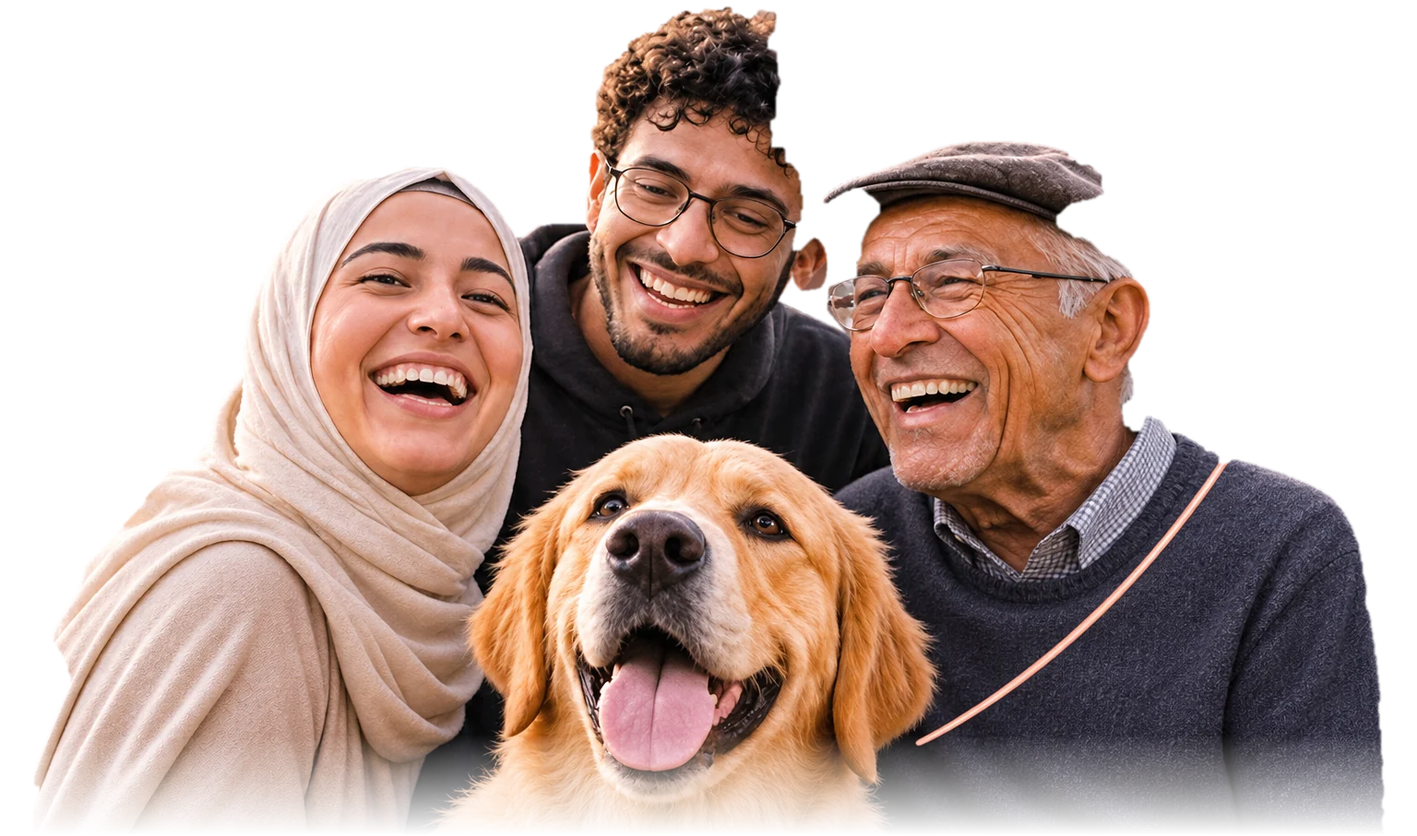
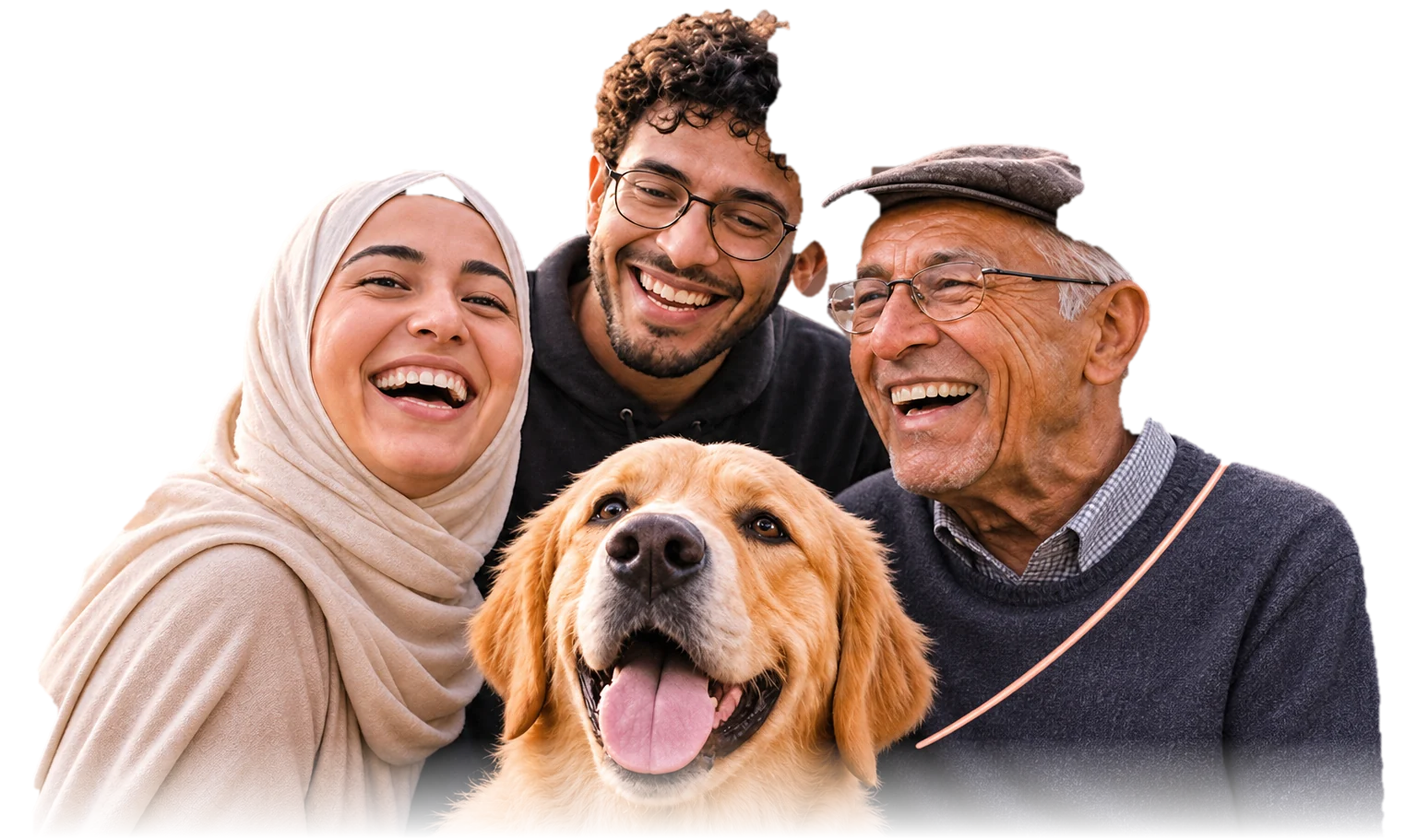
Interactive app preview, benefits section, log out, fuller hero cut-out
Landing: a "The App" section with a CSS iPhone that runs real mini
screens (welcome, log in, home, explore, event, request sent, plans,
chat). Tapping inside the phone or scrolling the section moves through
the app; when the story changes side, the phone spins 360 degrees across
the stage and the description swaps. A benefits bento covers feeling less
alone, helping others, learning from elders, pets, friends and memories.
The hero cut-out keeps the full hair and cap.

/app: Log out in the sidebar and on the profile page.

diff --git a/app/globals.css b/app/globals.css
@@ -687,7 +687,7 @@ button:disabled{cursor:not-allowed}
 
 /* ===== Friends v5 ===== */
 /* Hero: cut-out group with no frame, sitting on a soft coral glow */
-.friends-showcase .showcase-hero-photo{aspect-ratio:1536/907}
+.friends-showcase .showcase-hero-photo{aspect-ratio:1536/910}
 .friends-showcase .showcase-hero-photo:after{content:"";position:absolute;inset:8% 6% 0;z-index:-1;border-radius:50%;background:radial-gradient(ellipse at 50% 55%,#ed927f40 0%,#ed927f14 45%,transparent 70%);filter:blur(10px);pointer-events:none}
 .friends-showcase .showcase-hero-photo .showcase-hero-artwork{object-fit:contain;object-position:center bottom;border:0!important;border-radius:0!important;box-shadow:none!important;background:transparent}
 :root[data-theme='light'] .friends-showcase .showcase-hero-photo .showcase-hero-artwork{box-shadow:none!important}
@@ -758,3 +758,175 @@ button:disabled{cursor:not-allowed}
 .friends-showcase .showcase-hero-photo .hero-float-meet{top:4%;right:-2%}
 .friends-showcase .showcase-hero-photo .hero-float-care{bottom:26%;left:-4%}
 .friends-showcase .showcase-hero-photo .hero-float-belong{bottom:12%;right:-4%}
+
+/* ===== App showcase: interactive phone ===== */
+.app-show{--ph-bg:#17131a;--ph-panel:#231d26;--ph-line:#ffffff14;--ph-ink:#f8efec;--ph-muted:#a99ba5;--ph-coral:#ed927f;--ph-coral-ink:#27191a;--ph-bar:#1b161ef0;max-width:1180px;margin:40px auto 0}
+:root[data-theme='light'] .app-show{--ph-bg:#f7f0ed;--ph-panel:#fff;--ph-line:#e3d3ce;--ph-ink:#1f171e;--ph-muted:#6a5c66;--ph-coral:#a4473a;--ph-coral-ink:#fff;--ph-bar:#fffaf7f0}
+.app-track{position:relative;height:calc(8 * 70vh)}
+.app-stage{position:sticky;top:72px;height:calc(100dvh - 72px);min-height:640px;z-index:1}
+.app-copy,.app-phone-slot{position:absolute;top:0;bottom:0;left:0;width:50%;display:flex;align-items:center;transition:transform 1.1s cubic-bezier(.65,0,.35,1)}
+.app-phone-slot{justify-content:center;perspective:1600px}
+.app-copy{padding:0 5%}
+.side-right .app-phone-slot{transform:translateX(100%)}
+.side-left .app-copy{transform:translateX(100%)}
+.app-copy-inner{max-width:430px;animation:appCopyIn .55s cubic-bezier(.16,1,.3,1) both}
+@keyframes appCopyIn{from{opacity:0;transform:translateY(14px)}to{opacity:1;transform:none}}
+.app-copy h2{font:700 clamp(30px,3.4vw,44px)/1.08 Manrope,sans-serif;letter-spacing:-1.6px;margin:0 0 14px;color:var(--show-ink)}
+.app-copy p{font-size:15px;line-height:1.7;color:var(--show-muted);margin:0}
+.app-copy .app-hint{display:inline-flex;align-items:center;gap:8px;margin-top:18px;padding:7px 12px;border-radius:999px;background:color-mix(in srgb,var(--show-coral) 14%,transparent);color:var(--show-coral);font-size:12.5px;font-weight:600}
+.app-dots{display:flex;gap:6px;margin:22px 0 26px}
+.app-dots button{width:8px;height:8px;border-radius:99px;border:0;padding:0;background:color-mix(in srgb,var(--show-ink) 25%,transparent);cursor:pointer;transition:width .3s,background .3s}
+.app-dots button.on{width:26px;background:var(--show-coral)}
+.app-stores{display:flex;flex-wrap:wrap;align-items:center;gap:14px}
+.app-stores>span{display:inline-flex;align-items:center;gap:7px;font-size:12px;color:var(--show-muted)}
+.app-sentinels{position:absolute;inset:0;display:grid;grid-template-rows:repeat(8,1fr);pointer-events:none;visibility:hidden}
+
+/* Device */
+.ph-device{position:relative;width:282px;height:580px;transform-style:preserve-3d;transition:transform 1.1s cubic-bezier(.65,0,.35,1)}
+.ph-face{position:absolute;inset:0;border-radius:46px;backface-visibility:hidden;-webkit-backface-visibility:hidden}
+.ph-front{background:#0e0b10;padding:10px;box-shadow:inset 0 0 0 1px #ffffff26,0 0 0 2px #2c2531,0 40px 80px rgba(10,6,12,.45)}
+:root[data-theme='light'] .ph-front{box-shadow:inset 0 0 0 1px #ffffff26,0 0 0 2px #3a3036,0 40px 80px rgba(74,47,42,.3)}
+.ph-front:before,.ph-front:after{content:"";position:absolute;width:3px;border-radius:3px;background:#2c2531}
+.ph-front:before{left:-4px;top:118px;height:56px;box-shadow:0 70px 0 #2c2531}
+.ph-front:after{right:-4px;top:150px;height:80px}
+.ph-rear{transform:rotateY(180deg);background:linear-gradient(150deg,#46303d,#1d161f 70%);box-shadow:inset 0 0 0 1px #ffffff26,0 0 0 2px #2c2531,0 40px 80px rgba(10,6,12,.45)}
+.ph-cam{position:absolute;top:20px;left:20px;width:98px;height:98px;border-radius:28px;background:#0e0b10aa;display:grid;grid-template-columns:1fr 1fr;place-items:center;padding:10px;box-shadow:inset 0 0 0 1px #ffffff1a}
+.ph-cam i{width:34px;height:34px;border-radius:50%;background:radial-gradient(circle at 40% 35%,#4a4a5a,#08070a 60%);box-shadow:0 0 0 3px #1d181f}
+.ph-cam i:nth-child(3){width:14px;height:14px}
+.ph-rear-logo{position:absolute;left:50%;top:50%;width:58px;height:58px;transform:translate(-50%,-50%);color:#ed927f;display:grid}
+.ph-rear-logo .friends-brand-mark{width:58px;height:58px;flex-basis:58px;color:#ed927f}
+.ph-screen{position:relative;height:100%;border-radius:37px;overflow:hidden;background:var(--ph-bg);color:var(--ph-ink);font-family:'DM Sans',sans-serif;font-size:12px}
+.ph-status{position:relative;z-index:3;height:44px;display:flex;align-items:center;justify-content:space-between;padding:4px 24px 0 28px;font-weight:600;font-size:12px}
+.ph-island{position:absolute;left:50%;top:10px;transform:translateX(-50%);width:90px;height:26px;border-radius:20px;background:#000}
+.ph-sys{display:flex;gap:4px;font-size:12px}
+.ph-view{position:absolute;inset:44px 0 0;animation:phIn .35s cubic-bezier(.16,1,.3,1)}
+@keyframes phIn{from{opacity:0;transform:translateX(16px)}to{opacity:1;transform:none}}
+.ph-home-bar{position:absolute;z-index:5;bottom:7px;left:50%;transform:translateX(-50%);width:108px;height:4px;border-radius:4px;background:var(--ph-ink);opacity:.45;pointer-events:none}
+.ph-screen button{font-family:inherit;cursor:pointer}
+
+/* Screens */
+.ph-scroll{position:absolute;inset:0;display:flex;flex-direction:column}
+.ph-scroll>.ph-pad,.ph-msgs{flex:1;overflow:auto;scrollbar-width:none}
+.ph-pad{padding:6px 16px 14px}
+.ph-h{font:700 19px/1.2 Manrope,sans-serif;letter-spacing:-.5px;margin:4px 0 4px}
+.ph-sub{color:var(--ph-muted);font-size:11.5px;line-height:1.5;margin:0}
+.ph-label{font-size:11px;font-weight:600;color:var(--ph-muted);margin:14px 0 8px}
+.ph-btn{display:flex;align-items:center;justify-content:center;width:100%;height:40px;margin-top:10px;border:0;border-radius:12px;background:var(--ph-coral);color:var(--ph-coral-ink);font-weight:700;font-size:12.5px;transition:transform .15s}
+.ph-btn.ghost{background:transparent;color:var(--ph-ink);border:1px solid var(--ph-line)}
+.ph-btn:active,.ph-card:active,.ph-paths button:active{transform:scale(.97)}
+.ph-spin{width:16px;height:16px;border-radius:50%;border:2px solid currentColor;border-right-color:transparent;animation:phSpin .6s linear infinite}
+@keyframes phSpin{to{transform:rotate(360deg)}}
+.ph-back{width:32px;height:32px;display:grid;place-items:center;border-radius:10px;border:1px solid var(--ph-line);background:var(--ph-panel);color:var(--ph-ink);font-size:16px;margin:4px 0 10px}
+.ph-back.on-img{position:absolute;top:10px;left:12px;margin:0;background:#0009;color:#fff;border-color:#fff3}
+.ph-welcome{position:absolute;inset:-44px 0 0;padding:0;display:flex;flex-direction:column;justify-content:flex-end}
+.ph-welcome-img{position:absolute;top:0;left:0;width:100%;height:62%;object-fit:cover;mask-image:linear-gradient(#000 55%,transparent);-webkit-mask-image:linear-gradient(#000 55%,transparent)}
+.ph-welcome-copy{position:relative;padding:0 18px 30px;text-align:center}
+.ph-logo{display:inline-grid;width:38px;height:38px;margin-bottom:6px}
+.ph-logo .friends-brand-mark{width:38px;height:38px;flex-basis:38px;color:var(--ph-coral)}
+.ph-welcome h4{font:700 21px/1.15 Manrope,sans-serif;letter-spacing:-.6px;margin:0 0 6px}
+.ph-welcome p{color:var(--ph-muted);font-size:11.5px;margin:0 0 6px}
+.ph-field{display:grid;gap:4px;margin-top:12px}
+.ph-field span{font-size:10.5px;font-weight:600;color:var(--ph-muted)}
+.ph-field b{display:block;padding:10px 12px;border-radius:11px;border:1px solid var(--ph-line);background:var(--ph-panel);font-weight:500;font-size:12px}
+.ph-note{font-size:10px;color:var(--ph-muted);text-align:center;margin:10px 0 0}
+.ph-hero{position:relative;height:118px;border-radius:16px;overflow:hidden;margin-top:10px}
+.ph-hero img,.ph-paths img,.ph-detail-img img,.ph-card img{width:100%;height:100%;object-fit:cover;display:block}
+.ph-hero>div{position:absolute;inset:auto 0 0;padding:26px 12px 10px;background:linear-gradient(transparent,#120d14e6);color:#fff}
+.ph-hero b{display:block;font:700 13px/1.3 Manrope,sans-serif}
+.ph-hero span{font-size:10px;opacity:.85}
+.ph-paths{display:grid;grid-template-columns:1fr 1fr;gap:8px}
+.ph-paths button{position:relative;height:86px;padding:0;border:0;border-radius:14px;overflow:hidden;transition:transform .15s}
+.ph-paths button.wide{grid-column:1/-1;height:70px}
+.ph-paths span{position:absolute;left:10px;bottom:8px;color:#fff;font:700 12.5px Manrope,sans-serif;text-shadow:0 1px 8px #0009}
+.ph-search{display:flex;align-items:center;gap:8px;margin:8px 0;padding:9px 12px;border-radius:11px;background:var(--ph-panel);border:1px solid var(--ph-line);color:var(--ph-muted);font-size:11.5px}
+.ph-chips{display:flex;gap:6px;margin-bottom:10px}
+.ph-chips span{padding:5px 10px;border-radius:99px;border:1px solid var(--ph-line);font-size:10.5px;color:var(--ph-muted)}
+.ph-chips .on{background:var(--ph-ink);color:var(--ph-bg);border-color:var(--ph-ink)}
+.ph-card{display:flex;gap:10px;width:100%;padding:8px;margin-bottom:8px;border-radius:14px;border:1px solid var(--ph-line);background:var(--ph-panel);color:var(--ph-ink);text-align:left;transition:transform .15s}
+.ph-card img{width:62px;height:62px;border-radius:10px;flex:none}
+.ph-card b{display:block;font-size:12px;line-height:1.3}
+.ph-card span{display:block;font-size:10.5px;color:var(--ph-muted);margin:3px 0}
+.ph-card em{font-style:normal;font-size:10px;font-weight:600;color:var(--ph-coral)}
+.ph-detail-img{position:relative;height:178px;flex:none}
+.ph-tag{display:inline-block;margin-top:2px;padding:4px 9px;border-radius:99px;background:color-mix(in srgb,var(--ph-coral) 16%,transparent);color:var(--ph-coral);font-size:10px;font-weight:600}
+.ph-facts{display:grid;grid-template-columns:1fr 1fr;gap:8px;margin:10px 0}
+.ph-facts div{padding:9px 10px;border-radius:11px;background:var(--ph-panel);border:1px solid var(--ph-line)}
+.ph-facts span{display:block;font-size:10px;color:var(--ph-muted)}
+.ph-facts b{font-size:11.5px}
+.ph-going{display:flex;align-items:center}
+.ph-av{width:26px;height:26px;border-radius:50%;display:grid;place-items:center;font-size:10.5px;font-weight:700;color:#241b1f;border:2px solid var(--ph-bg);margin-right:-7px}
+.ph-av.a{background:#e9a28e}.ph-av.b{background:#d6b6a9}.ph-av.c{background:#c9a6c2}
+.ph-going p{margin:0 0 0 14px;font-size:11px;color:var(--ph-muted)}
+.ph-sent{position:absolute;inset:0;display:flex;flex-direction:column;justify-content:center;text-align:center;padding:0 22px 40px}
+.ph-check{width:70px;height:70px;margin:0 auto 14px;border-radius:50%;display:grid;place-items:center;background:var(--ph-coral);color:var(--ph-coral-ink);font-size:32px;box-shadow:0 0 0 0 color-mix(in srgb,var(--ph-coral) 50%,transparent);animation:phPop .5s cubic-bezier(.34,1.56,.64,1) both,phRing 1.6s .5s ease-out infinite}
+@keyframes phPop{from{transform:scale(.4);opacity:0}to{transform:none;opacity:1}}
+@keyframes phRing{to{box-shadow:0 0 0 18px transparent}}
+.ph-week{display:grid;grid-template-columns:repeat(7,1fr);gap:4px;margin:8px 0 12px}
+.ph-week span{display:grid;justify-items:center;gap:2px;padding:6px 0;border-radius:10px;font-size:12px;font-weight:600;position:relative}
+.ph-week small{font-size:9px;color:var(--ph-muted);font-weight:500}
+.ph-week .today{background:var(--ph-coral);color:var(--ph-coral-ink)}
+.ph-week .today small{color:inherit;opacity:.8}
+.ph-week .has:after{content:"";position:absolute;bottom:2px;width:4px;height:4px;border-radius:50%;background:var(--ph-coral)}
+.ph-plan{display:flex;align-items:center;gap:10px;padding:9px;margin-bottom:7px;border-radius:13px;background:var(--ph-panel);border:1px solid var(--ph-line)}
+.ph-date{display:grid;justify-items:center;width:38px;padding:5px 0;border-radius:9px;background:color-mix(in srgb,var(--ph-coral) 12%,transparent);font:700 14px Manrope,sans-serif;color:var(--ph-coral)}
+.ph-date small{font:500 9px 'DM Sans',sans-serif}
+.ph-plan div{flex:1;min-width:0}
+.ph-plan b{display:block;font-size:11.5px;white-space:nowrap;overflow:hidden;text-overflow:ellipsis}
+.ph-plan div span{font-size:10px;color:var(--ph-muted)}
+.ph-plan em{font-style:normal;font-size:9.5px;font-weight:600;padding:3px 7px;border-radius:99px}
+.ph-plan em.ok{background:#3f8a5a33;color:#7fcf9b}.ph-plan em.pend{background:#8fa0d633;color:#a9b6e8}
+:root[data-theme='light'] .ph-plan em.ok{background:#dcefe2;color:#21593a}
+:root[data-theme='light'] .ph-plan em.pend{background:#e3e8f8;color:#33447a}
+.ph-chat-head{display:flex;align-items:center;gap:10px;padding:6px 16px 10px;border-bottom:1px solid var(--ph-line)}
+.ph-chat-head .ph-av{width:32px;height:32px;margin:0;border:0}
+.ph-chat-head b{display:block;font-size:12.5px}.ph-chat-head span{font-size:10px;color:var(--ph-muted)}
+.ph-msgs{display:flex;flex-direction:column;gap:8px;padding:14px 14px 10px}
+.ph-msgs p{margin:0;max-width:78%;padding:9px 12px;border-radius:15px 15px 15px 4px;background:var(--ph-panel);border:1px solid var(--ph-line);font-size:11.5px;line-height:1.45;opacity:0;animation:phMsg .4s var(--d) cubic-bezier(.16,1,.3,1) forwards}
+.ph-msgs p.out{align-self:flex-end;border-radius:15px 15px 4px 15px;background:var(--ph-coral);color:var(--ph-coral-ink);border-color:transparent}
+.ph-msgs .typing{display:flex;gap:4px;width:max-content}
+.ph-msgs .typing i{width:6px;height:6px;border-radius:50%;background:var(--ph-muted);animation:phDot 1s infinite}
+.ph-msgs .typing i:nth-child(2){animation-delay:.15s}
+.ph-msgs .typing i:nth-child(3){animation-delay:.3s}
+@keyframes phMsg{from{opacity:0;transform:translateY(8px)}to{opacity:1;transform:none}}
+@keyframes phDot{0%,100%{opacity:.3;transform:none}50%{opacity:1;transform:translateY(-2px)}}
+.ph-tabs{flex:none;display:grid;grid-template-columns:repeat(4,1fr);height:62px;padding-bottom:14px;background:var(--ph-bar);border-top:1px solid var(--ph-line)}
+.ph-tabs button{display:grid;justify-items:center;align-content:center;gap:2px;border:0;background:none;color:var(--ph-muted);font-size:9.5px;font-weight:600}
+.ph-tabs .icon{font-size:17px}
+.ph-tabs .on{color:var(--ph-coral)}
+
+@media(max-width:900px){
+ .app-track{height:auto}
+ .app-stage{position:relative;top:0;height:auto;min-height:0;display:flex;flex-direction:column;gap:28px;padding:20px 0}
+ .app-copy,.app-phone-slot{position:relative;width:100%;transform:none!important;justify-content:center;text-align:center}
+ .app-copy-inner{margin:0 auto}
+ .app-dots,.app-stores{justify-content:center}
+ .app-sentinels{display:none}
+}
+@media(max-width:420px){.ph-device{width:262px;height:540px}}
+@media(prefers-reduced-motion:reduce){.app-copy,.app-phone-slot,.ph-device{transition:none}.ph-view,.app-copy-inner,.ph-msgs p,.ph-check{animation:none!important;opacity:1}}
+
+/* ===== Benefits bento ===== */
+.benefits{max-width:1180px;margin:0 auto;padding:40px 0 10px}
+.benefit-grid{display:grid;grid-template-columns:repeat(4,1fr);grid-auto-rows:minmax(168px,auto);gap:12px}
+.benefit-grid article{position:relative;overflow:hidden;border-radius:20px;padding:20px;background:linear-gradient(145deg,rgba(255,255,255,.08),rgba(255,255,255,.03));border:1px solid rgba(255,255,255,.14);display:flex;flex-direction:column;transition:transform .25s,border-color .25s}
+.benefit-grid article:hover{transform:translateY(-3px);border-color:color-mix(in srgb,var(--show-coral) 60%,transparent)}
+.benefit-grid article>.icon{font-size:20px;color:var(--show-coral);margin-bottom:auto}
+.benefit-grid h3{font:700 17px Manrope,sans-serif;letter-spacing:-.4px;margin:14px 0 6px;color:var(--show-ink)}
+.benefit-grid p{font-size:12.5px;line-height:1.6;color:var(--show-muted);margin:0}
+.benefit-grid .b-pets{grid-column:span 2;grid-row:span 2}
+.benefit-grid .b-memories{grid-column:1/-1;min-height:220px}
+.benefit-grid .has-img{padding:0;border:0}
+.benefit-grid .has-img>img{position:absolute;inset:0;width:100%;height:100%;object-fit:cover;transition:transform .6s}
+.benefit-grid .has-img:hover>img{transform:scale(1.04)}
+.benefit-grid .has-img>div{position:relative;margin-top:auto;padding:70px 22px 22px;background:linear-gradient(transparent,rgba(18,12,20,.88))}
+.benefit-grid .has-img h3{color:#fff;font-size:21px}
+.benefit-grid .has-img p{color:#efe4e7;max-width:440px}
+.benefit-grid .has-img .icon{font-size:20px;color:#f3a896}
+.benefit-grid .tinted{background:linear-gradient(150deg,color-mix(in srgb,var(--show-coral) 30%,transparent),color-mix(in srgb,var(--show-coral) 8%,transparent));border-color:color-mix(in srgb,var(--show-coral) 40%,transparent)}
+:root[data-theme='light'] .benefit-grid article:not(.has-img):not(.tinted){background:linear-gradient(145deg,#faf4f1,#ecdfda);border-color:#d3bfb9}
+:root[data-theme='light'] .benefit-grid .tinted{background:linear-gradient(150deg,#f1d3ca,#f7e6e1);border-color:#dcb3a8}
+@media(max-width:900px){.benefit-grid{grid-template-columns:1fr 1fr}.benefit-grid .b-pets{grid-column:1/-1;grid-row:auto;min-height:280px}}
+@media(max-width:560px){.benefit-grid{grid-template-columns:1fr}}
+
+/* sticky needs a non-scrolling ancestor: clip sideways overflow instead of hiding it */
+.friends-showcase{overflow:visible;overflow-x:clip}

diff --git a/components/PhoneShowcase.jsx b/components/PhoneShowcase.jsx
@@ -1,0 +1,146 @@
+'use client';
+import {useEffect,useRef,useState} from 'react';
+import Link from 'next/link';
+import {FriendsBrand} from './FriendsBrand';
+
+// Interactive app preview: real mini screens inside a CSS phone. Tapping inside the phone
+// moves through the app; scrolling the section does the same. When the story changes side,
+// the phone spins 360 degrees across the stage and the description swaps to the other side.
+
+const IMG={
+ dog:'https://images.unsplash.com/photo-1551717743-49959800b1f6?auto=format&fit=crop&w=640&q=75',
+ grand:'https://images.unsplash.com/photo-1511632765486-a01980e01a18?auto=format&fit=crop&w=640&q=75',
+ events:'https://images.unsplash.com/photo-1529156069898-49953e39b3ac?auto=format&fit=crop&w=640&q=75',
+ pottery:'https://images.unsplash.com/photo-1565193566173-7a0ee3dbe261?auto=format&fit=crop&w=640&q=75'
+};
+const STEPS=[
+ {key:'welcome',side:'right',title:'Friends, in your pocket',text:'The same warm community, made for your phone. Plans, people and reminders are always one tap away.',hint:'Tap Log in on the phone'},
+ {key:'login',side:'right',title:'Back in with one tap',text:'Your profile, plans and chats follow you from the website to the app. Nothing to set up twice.',hint:'Tap Log in'},
+ {key:'home',side:'left',title:'Your community at a glance',text:'See what is happening near you today and choose how you want to show up: animals, grandfriends or events.',hint:'Tap Events'},
+ {key:'explore',side:'left',title:'Find a plan that fits',text:'Every listing shows the area, the expected spend and how many spots are left, so deciding takes seconds.',hint:'Tap an event'},
+ {key:'detail',side:'right',title:'Know before you go',text:'Dates, the host, the plan and who is already going. The first hello feels a lot easier.',hint:'Tap Request to join'},
+ {key:'sent',side:'right',title:'Your request is on its way',text:'The host looks at your profile and you get a notification the moment you are in.',hint:'Tap See my plans'},
+ {key:'plans',side:'left',title:'Your week, planned',text:'Visits and events land on one calendar, with a reminder before each one.',hint:'Tap Chats'},
+ {key:'chat',side:'left',title:'Say hello before you meet',text:'Every plan gets its own group chat, so you arrive already knowing a few names.',hint:'Tap Home to start again'}
+];
+const idx=k=>STEPS.findIndex(s=>s.key===k);
+
+function Icon({n}){return <i className={'icon icon-'+n} aria-hidden="true"/>}
+function Tabs({go,active}){
+ const t=[['home','house','Home'],['explore','compass','Explore'],['plans','calendar-days','Plans'],['chat','message-circle','Chats']];
+ return <nav className="ph-tabs">{t.map(([k,i,l])=><button key={k} type="button" className={active===k?'on':''} onClick={()=>go(k)}><Icon n={i}/><span>{l}</span></button>)}</nav>;
+}
+
+function Screen({k,go,busy,setBusy}){
+ if(k==='welcome')return <div className="ph-pad ph-welcome">
+  <img src={IMG.events} alt="" className="ph-welcome-img"/>
+  <div className="ph-welcome-copy"><span className="ph-logo"><FriendsBrand/></span><h4>Make room for connection</h4><p>Animals, grandfriends and new faces, all in one place.</p>
+   <button type="button" className="ph-btn" onClick={()=>go('login')}>Log in</button><button type="button" className="ph-btn ghost" onClick={()=>go('login')}>Create an account</button></div>
+ </div>;
+ if(k==='login')return <div className="ph-pad">
+  <button type="button" className="ph-back" onClick={()=>go('welcome')} aria-label="Back"><Icon n="chevron-left"/></button>
+  <h4 className="ph-h">Welcome back</h4><p className="ph-sub">Log in to see your plans.</p>
+  <label className="ph-field"><span>Email</span><b>nour@friends.app</b></label>
+  <label className="ph-field"><span>Password</span><b>••••••••••</b></label>
+  <button type="button" className="ph-btn" disabled={busy} onClick={()=>{setBusy(true);setTimeout(()=>{setBusy(false);go('home')},450)}}>{busy?<span className="ph-spin"/>:'Log in'}</button>
+  <p className="ph-note">Demo preview. Nothing is sent anywhere.</p>
+ </div>;
+ if(k==='home')return <div className="ph-scroll">
+  <div className="ph-pad"><p className="ph-sub">Thursday, 12 Nov</p><h4 className="ph-h">Hi Nour</h4>
+   <div className="ph-hero"><img src={IMG.events} alt=""/><div><b>Good things happen when we show up.</b><span>3 plans near you today</span></div></div>
+   <p className="ph-label">Choose how to connect</p>
+   <div className="ph-paths">
+    <button type="button" onClick={()=>go('explore')}><img src={IMG.dog} alt=""/><span>Animals</span></button>
+    <button type="button" onClick={()=>go('explore')}><img src={IMG.grand} alt=""/><span>Grandfriends</span></button>
+    <button type="button" className="wide" onClick={()=>go('explore')}><img src={IMG.events} alt=""/><span>Events</span></button>
+   </div></div>
+  <Tabs go={go} active="home"/>
+ </div>;
+ if(k==='explore')return <div className="ph-scroll">
+  <div className="ph-pad"><h4 className="ph-h">Explore</h4>
+   <div className="ph-search"><Icon n="search"/>Search events or areas</div>
+   <div className="ph-chips"><span className="on">All</span><span>Food</span><span>Arts</span><span>Outdoor</span></div>
+   {[{img:IMG.pottery,t:'Pottery, no experience needed',m:'Maadi · Sat 14 Nov',s:'2 spots left'},{img:IMG.events,t:'Dinner with new faces',m:'Zamalek · Fri 13 Nov',s:'3 spots left'},{img:IMG.dog,t:'Hope Tails Rescue',m:'Maadi · Free',s:'3 openings'}].map((e,i)=>
+    <button type="button" key={e.t} className="ph-card" onClick={()=>go('detail')}><img src={e.img} alt=""/><div><b>{e.t}</b><span>{e.m}</span><em>{e.s}</em></div></button>)}
+  </div>
+  <Tabs go={go} active="explore"/>
+ </div>;
+ if(k==='detail')return <div className="ph-scroll">
+  <div className="ph-detail-img"><img src={IMG.pottery} alt=""/><button type="button" className="ph-back on-img" onClick={()=>go('explore')} aria-label="Back"><Icon n="chevron-left"/></button></div>
+  <div className="ph-pad"><span className="ph-tag">Arts & culture</span><h4 className="ph-h">Pottery, no experience needed</h4>
+   <div className="ph-facts"><div><span>When</span><b>Sat 14 Nov, 4 pm</b></div><div><span>Spend</span><b>EGP 300-500</b></div></div>
+   <div className="ph-going"><span className="ph-av a">M</span><span className="ph-av b">O</span><span className="ph-av c">S</span><p>4 going · hosted by Omar</p></div>
+   <button type="button" className="ph-btn" onClick={()=>go('sent')}>Request to join</button>
+  </div>
+ </div>;
+ if(k==='sent')return <div className="ph-pad ph-sent">
+  <div className="ph-check"><Icon n="check"/></div><h4 className="ph-h">Request sent</h4>
+  <p className="ph-sub">Omar will review your profile. We will let you know as soon as you are in.</p>
+  <button type="button" className="ph-btn" onClick={()=>go('plans')}>See my plans</button>
+  <button type="button" className="ph-btn ghost" onClick={()=>go('explore')}>Keep exploring</button>
+ </div>;
+ if(k==='plans')return <div className="ph-scroll">
+  <div className="ph-pad"><h4 className="ph-h">My plans</h4>
+   <div className="ph-week">{['M','T','W','T','F','S','S'].map((d,i)=><span key={i} className={(i===3?'today ':'')+(i===5||i===6?'has':'')}><small>{d}</small>{9+i}</span>)}</div>
+   {[{d:'14',t:'Pottery, no experience needed',m:'4:00 pm · Maadi',s:'Pending',c:'pend'},{d:'14',t:'Bayt El Hekaya',m:'1:00 pm · Heliopolis',s:'Confirmed',c:'ok'},{d:'15',t:'Hope Tails Rescue',m:'10:00 am · Maadi',s:'Confirmed',c:'ok'}].map(p=>
+    <div className="ph-plan" key={p.t}><span className="ph-date"><small>Nov</small>{p.d}</span><div><b>{p.t}</b><span>{p.m}</span></div><em className={p.c}>{p.s}</em></div>)}
+  </div>
+  <Tabs go={go} active="plans"/>
+ </div>;
+ return <div className="ph-scroll">
+  <div className="ph-chat-head"><span className="ph-av a">P</span><div><b>Pottery group</b><span>5 members</span></div></div>
+  <div className="ph-msgs">
+   <p className="in" style={{'--d':'0s'}}>Hi all! First time on the wheel for me too.</p>
+   <p className="in" style={{'--d':'.7s'}}>Same here. Shall we meet at the studio door at 3:50?</p>
+   <p className="out" style={{'--d':'1.4s'}}>Perfect, see you there!</p>
+   <p className="typing" style={{'--d':'2.1s'}}><i/><i/><i/></p>
+  </div>
+  <Tabs go={go} active="chat"/>
+ </div>;
+}
+
+export default function PhoneShowcase(){
+ const [step,setStep]=useState(0);
+ const [spins,setSpins]=useState(0);
+ const [busy,setBusy]=useState(false);
+ const prevSide=useRef(STEPS[0].side);
+ const sentinels=useRef([]);
+ const cur=STEPS[step];
+
+ useEffect(()=>{if(cur.side!==prevSide.current){prevSide.current=cur.side;setSpins(s=>s+1)}},[cur.side]);
+ useEffect(()=>{
+  const io=new IntersectionObserver(entries=>{entries.forEach(e=>{if(e.isIntersecting)setStep(Number(e.target.dataset.step))})},{rootMargin:'-45% 0px -45% 0px'});
+  sentinels.current.forEach(el=>el&&io.observe(el));
+  return()=>io.disconnect();
+ },[]);
+ const go=k=>{const i=idx(k);if(i>=0)setStep(i)};
+ const tilt=cur.side==='right'?-9:9;
+
+ return <section className="app-show" id="app" aria-label="The Friends app">
+  <div className="app-track">
+   <div className={'app-stage side-'+cur.side}>
+    <div className="app-copy" aria-live="polite">
+     <div key={cur.key} className="app-copy-inner">
+      <h2>{cur.title}</h2><p>{cur.text}</p>
+      <p className="app-hint"><Icon n="pointer"/>{cur.hint}</p>
+      <div className="app-dots" role="tablist" aria-label="App screens">{STEPS.map((s,i)=><button key={s.key} type="button" role="tab" aria-selected={i===step} aria-label={s.title} className={i===step?'on':''} onClick={()=>setStep(i)}/>)}</div>
+      <div className="app-stores"><span><Icon n="smartphone"/>Coming soon to iPhone and Android</span><Link href="/signup/" className="showcase-join">Get started on the web <Icon n="arrow-up-right"/></Link></div>
+     </div>
+    </div>
+    <div className="app-phone-slot">
+     <div className="ph-device" style={{transform:`rotateY(${spins*360+tilt}deg)`}}>
+      <div className="ph-face ph-front">
+       <div className="ph-screen">
+        <div className="ph-status"><span>9:41</span><span className="ph-island"/><span className="ph-sys"><Icon n="signal"/><Icon n="wifi"/><Icon n="battery-full"/></span></div>
+        <div className="ph-view" key={cur.key}><Screen k={cur.key} go={go} busy={busy} setBusy={setBusy}/></div>
+        <span className="ph-home-bar"/>
+       </div>
+      </div>
+      <div className="ph-face ph-rear" aria-hidden="true"><span className="ph-cam"><i/><i/><i/></span><span className="ph-rear-logo"><FriendsBrand/></span></div>
+     </div>
+    </div>
+   </div>
+   <div className="app-sentinels" aria-hidden="true">{STEPS.map((s,i)=><span key={s.key} data-step={i} ref={el=>sentinels.current[i]=el}/>)}</div>
+  </div>
+ </section>;
+}

diff --git a/app/page.jsx b/app/page.jsx
@@ -3,6 +3,7 @@ import Link from 'next/link';
 import {useState} from 'react';
 import ThemeToggle from '../components/ThemeToggle';
 import {FriendsBrand} from '../components/FriendsBrand';
+import PhoneShowcase from '../components/PhoneShowcase';
 
 function Brand(){return <Link href="/" className="showcase-brand"><FriendsBrand/><span>Friends</span></Link>}
 function Icon({name}){return <i className={'icon icon-'+name} aria-hidden="true"/>}
@@ -30,7 +31,7 @@ const stats=[
  {icon:'calendar-heart',value:'320+',label:'Meaningful Events'}
 ];
 export default function Home(){const [story,setStory]=useState(0);return <main className="friends-showcase">
- <header className="showcase-nav"><Brand/><nav><a href="#home">Home</a><a href="#why">Why Friends</a><a href="#how">How It Works</a><a href="#impact">Impact</a><a href="#stories">Stories</a></nav><div className="showcase-nav-actions"><ThemeToggle/><Link href="/login/" className="showcase-login">Log in</Link><Link href="/signup/" className="showcase-join">Get Started</Link></div></header>
+ <header className="showcase-nav"><Brand/><nav><a href="#home">Home</a><a href="#why">Why Friends</a><a href="#how">How It Works</a><a href="#benefits">Benefits</a><a href="#app">The App</a><a href="#stories">Stories</a></nav><div className="showcase-nav-actions"><ThemeToggle/><Link href="/login/" className="showcase-login">Log in</Link><Link href="/signup/" className="showcase-join">Get Started</Link></div></header>
  <section className="showcase-hero" id="home"><div className="showcase-hero-copy"><p className="showcase-kicker">A COMMUNITY FOR REAL CONNECTIONS</p><h1>Make Room<br/>for <em>Connection</em></h1><p className="showcase-lead">Spend time with shelter animals, bring company to older adults, or join meaningful events, all in one place.</p><div className="showcase-ctas"><Link href="/signup/" className="showcase-join">Get Started Free <Icon name="arrow-up-right"/></Link><a href="#how" className="showcase-watch"><Icon name="circle-play"/> Watch How It Works</a></div></div><div className="showcase-hero-photo">
  <img className="showcase-hero-artwork" src="/friends-platform/friends-hero-community.webp" width="1536" height="1024" alt="Two young friends and an older man laughing together with a golden retriever" fetchPriority="high"/>
  {heroCards.map(c=><div key={c.key} className={'hero-float-card hero-float-'+c.key} aria-hidden="true"><Icon name={c.icon}/><span>{c.label}</span></div>)}
@@ -38,6 +39,18 @@ export default function Home(){const [story,setStory]=useState(0);return <main c
  <section className="showcase-stats" id="impact">{stats.map(s=><div key={s.label}><b><Icon name={s.icon}/></b><strong>{s.value}</strong><small>{s.label}</small></div>)}</section>
  <section className="showcase-section why-showcase" id="why"><div className="showcase-section-heading"><h2>Why Friends Exists</h2><p>Because in a fast-paced world, many people, animals, and older adults feel left out. Friends brings them together to create kindness, companionship, and a stronger, happier community.</p></div><div className="why-showcase-grid"><article><span><Icon name="paw-print"/></span><h3>Support Animals</h3><p>Help shelters and give animals the care and attention they deserve.</p></article><article><span><Icon name="heart-handshake"/></span><h3>Be There for Others</h3><p>Spend quality time with older adults and reduce feelings of loneliness.</p></article><article><span><Icon name="sprout"/></span><h3>Grow Yourself</h3><p>Build empathy, new friendships, and a happier, more purposeful life.</p></article></div></section>
  <section className="showcase-section how-showcase" id="how"><div className="showcase-section-heading"><h2>How It Works</h2><p>Simple steps to start making a difference.</p></div><div className="how-showcase-steps"><article><span><Icon name="user-check"/></span><b>01</b><h3>Create Your<br/>Verified Account</h3></article><i><Icon name="arrow-right"/></i><article><span><Icon name="search"/></span><b>02</b><h3>Explore<br/>Opportunities</h3></article><i><Icon name="arrow-right"/></i><article><span><Icon name="calendar-check"/></span><b>03</b><h3>Request<br/>& Join</h3></article><i><Icon name="arrow-right"/></i><article><span><Icon name="heart"/></span><b>04</b><h3>Make a<br/>Real Impact</h3></article></div></section>
+
+ <section className="benefits" id="benefits"><div className="showcase-section-heading"><h2>What showing up gives you</h2><p>Friends is good for the people and animals you meet, and it is good for you too.</p></div>
+  <div className="benefit-grid">
+   <article className="b-pets has-img"><img src="https://images.unsplash.com/photo-1551717743-49959800b1f6?auto=format&fit=crop&w=1100&q=80" alt="A shelter dog resting its head" loading="lazy"/><div><Icon name="paw-print"/><h3>Affection from pets</h3><p>Shelter dogs and cats give it back the moment you walk in. Time with animals calms you down and lifts your mood.</p></div></article>
+   <article><Icon name="heart"/><h3>Feel less alone</h3><p>Regular plans and familiar faces turn a quiet week into one you look forward to.</p></article>
+   <article><Icon name="hand-heart"/><h3>Make someone's day</h3><p>One hour means company for an older adult and care for an animal waiting for a home.</p></article>
+   <article className="tinted"><Icon name="book-open"/><h3>Learn from experience</h3><p>Grandfriends share stories, recipes, skills and advice you will not find online.</p></article>
+   <article><Icon name="users"/><h3>Make real friends</h3><p>Small groups and shared activities make it easy to keep talking after the first hello.</p></article>
+   <article className="b-memories has-img"><img src="https://images.unsplash.com/photo-1529156069898-49953e39b3ac?auto=format&fit=crop&w=1600&q=80" alt="Friends laughing together outdoors" loading="lazy"/><div><Icon name="mountain"/><h3>Memories and adventures</h3><p>Try pottery, skating, rooftop dinners and weekend trips with people who said yes too.</p></div></article>
+  </div>
+ </section>
+ <PhoneShowcase/>
  <section className="showcase-testimonial" id="stories"><button type="button" aria-label="Previous story" onClick={()=>setStory((story+stories.length-1)%stories.length)}><Icon name="chevron-left"/></button><div className="testimonial-copy"><p>{stories[story].quote}</p><strong>{stories[story].name}</strong><small>{stories[story].meta}</small><div className="testimonial-dots">{stories.map((s,i)=><button type="button" key={s.name} aria-label={'Story '+(i+1)} aria-current={i===story} className={i===story?'active':''} onClick={()=>setStory(i)}/>)}</div></div><img src={stories[story].image} alt={stories[story].name}/><button type="button" aria-label="Next story" onClick={()=>setStory((story+1)%stories.length)}><Icon name="chevron-right"/></button></section>
  <section className="showcase-final"><img src="https://images.unsplash.com/photo-1470252649378-9c29740c9fa8?auto=format&fit=crop&w=1300&q=90" alt="A peaceful sunset outdoors"/><div><h2>Small Moments.<br/>A Bigger Life.</h2><p>Start your journey with Friends today.</p><Link href="/signup/" className="showcase-join">Join the Community <Icon name="arrow-up-right"/></Link></div></section>
  <section className="showcase-ways" aria-label="Ways to connect">{ways.map(w=><article key={w.title}><img src={w.image} alt=""/><div><small>{w.tag}</small><h3>{w.title}</h3><p>{w.desc}</p></div></article>)}</section>

diff --git a/public/app/index.html b/public/app/index.html
@@ -438,6 +438,10 @@ input[type=range]:focus-visible::-webkit-slider-thumb{box-shadow:0 0 0 5px color
 :root[data-theme='light'] .btn.accept:hover{background:#246a3e}
 :root[data-theme='light'] .btn.decline{background:transparent;color:var(--no);border-color:var(--no)}
 :root[data-theme='light'] .btn.decline:hover{background:var(--no);color:#fff}
+.logout-btn{display:flex;align-items:center;gap:10px;width:100%;margin-top:4px;padding:9px 11px;border:0;border-radius:11px;background:transparent;color:var(--muted);font:500 13px 'DM Sans',sans-serif;text-align:left;cursor:pointer}
+.logout-btn:hover{background:color-mix(in srgb,var(--danger) 14%,transparent);color:var(--danger)}
+.logout-btn i{font-size:16px}
+.profile-logout{margin:26px 0 0;width:auto;display:inline-flex;border:1px solid var(--line);padding:9px 14px}
 </style>
 </head>
 <body>
@@ -941,6 +945,16 @@ const baseOpenBudget=openBudget;openBudget=function(){$('budgetRange').value=bud
 })();
 const baseRenderCalendar=renderCalendar;
 renderCalendar=function(){baseRenderCalendar();const y=calendarCursor.getFullYear(),m=calendarCursor.getMonth();if(y===2026&&m===10){const t=[...document.querySelectorAll('#calendarGrid .cal-day')].find(b=>b.textContent==='12');if(t)t.classList.add('is-today');}};
+
+
+/* Log out: end the demo session and return to the landing page */
+function logOut(){try{localStorage.removeItem('friends-demo-session');}catch(e){}window.location.assign('/friends-platform/');}
+(function(){
+ const side=document.querySelector('.sidebar .side-bottom');
+ if(side&&!side.querySelector('.logout-btn'))side.insertAdjacentHTML('beforeend','<button type="button" class="logout-btn" onclick="logOut()"><i class="icon icon-log-out" aria-hidden="true"></i>Log out</button>');
+ const you=$('page-you');
+ if(you&&!you.querySelector('.logout-btn'))you.insertAdjacentHTML('beforeend','<button type="button" class="logout-btn profile-logout" onclick="logOut()"><i class="icon icon-log-out" aria-hidden="true"></i>Log out</button>');
+})();
 
 </script>
 </body>
